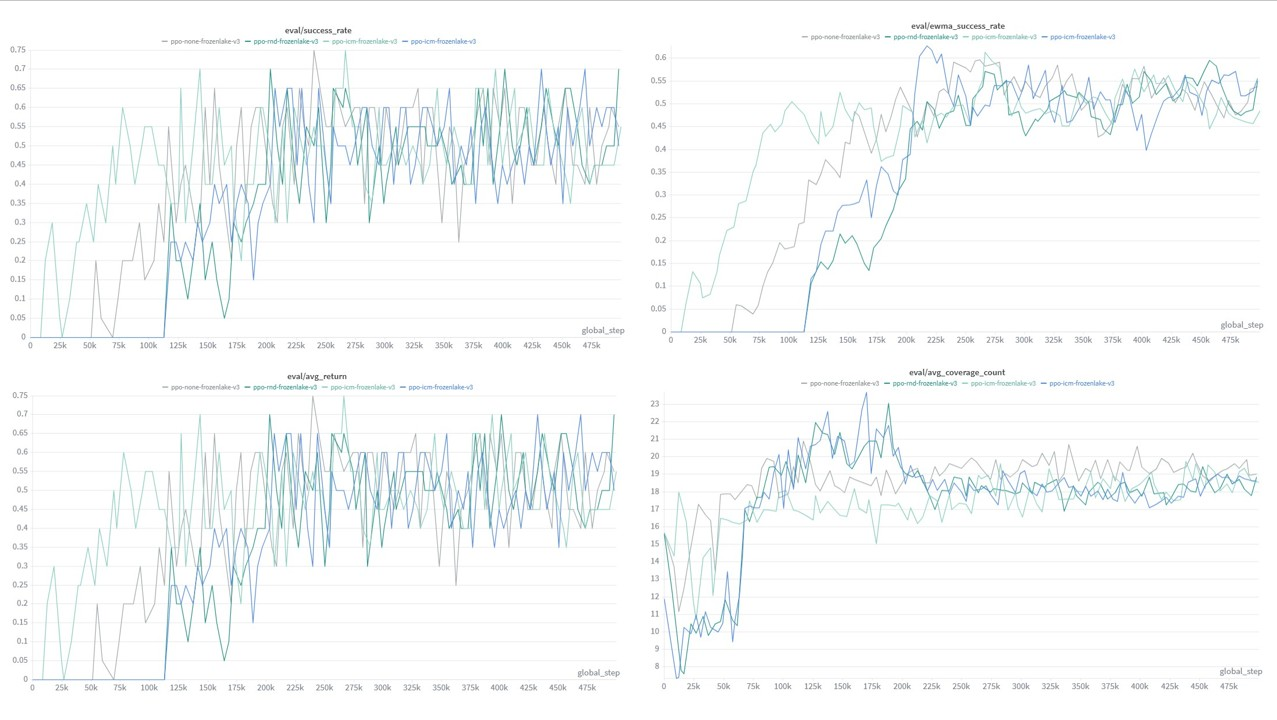
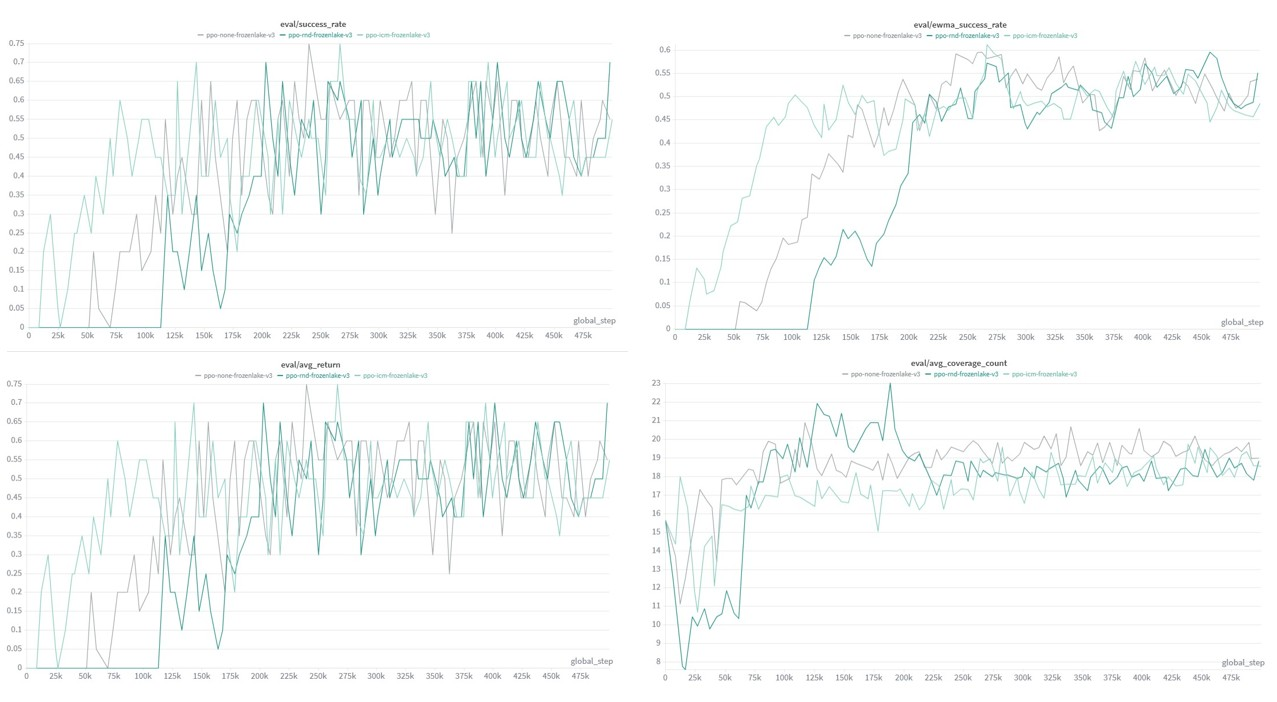
update frozenlake result

diff --git a/index.html b/index.html
@@ -320,25 +320,29 @@
           </p>
 
           <figure class="image">
-            <img src="static\images\frozenlake_eval.jpg" alt="FrozenLake learning curves">
+            <img src="static/images/frozenlake_eval.jpg" alt="FrozenLake learning curves">
             <figcaption class="has-text-centered">
               Learning curves on FrozenLake evaluated every 5,000 steps.
             </figcaption>
           </figure>
 
           <p>
-            The visitation heatmaps further show that intrinsic motivation changes the exploration behavior of the agent. PPO mainly concentrates visits along the successful path toward the goal. ICM produces a broader and more balanced visitation pattern, indicating stronger state-space exploration. RND also increases exploration coverage, but this broader exploration does not directly lead to faster task success.
+            The visitation heatmaps show that all methods eventually concentrate their visits along the upper row and right column, which correspond to the dominant successful path toward the goal. PPO and RND exhibit relatively similar final visitation patterns, indicating that both methods mainly exploit the successful route after learning.
+          </p>
+          
+          <p>
+            In contrast, ICM shows noticeably higher visitation frequencies around the starting region and nearby states, especially along the upper-left part of the map. This suggests that ICM does not necessarily increase global exploration coverage, but it improves local exploration around early states, which may help the agent discover successful trajectories earlier in training.
           </p>
 
           <figure class="image">
-            <img src="static\images\frozenlake_heatmap.jpg" alt="FrozenLake visitation heatmap">
+            <img src="static/images/frozenlake_heatmap.jpg" alt="FrozenLake visitation heatmap">
             <figcaption class="has-text-centered">
               State visitation heatmaps after training on FrozenLake.
             </figcaption>
           </figure>
 
           <p>
-            Overall, these results suggest that more exploration does not always lead to better final performance. ICM improves early exploration efficiency, while RND explores more broadly but learns more slowly. This highlights the difference between exploration coverage and policy learning efficiency in sparse-reward environments.
+            Overall, the FrozenLake results suggest that intrinsic motivation does not significantly improve the final success rate when PPO with entropy regularization already performs well. Instead, ICM mainly improves early learning efficiency, while RND behaves more similarly to PPO and learns more slowly. This highlights the difference between exploration behavior, learning speed, and final task performance in sparse-reward environments.
           </p>
 
         </div>
@@ -347,7 +351,7 @@
   </div>
 </section>
 <!-- End Results -->
-
+ 
 <!-- Image carousel -->
 <section class="hero is-small">
   <div class="hero-body">